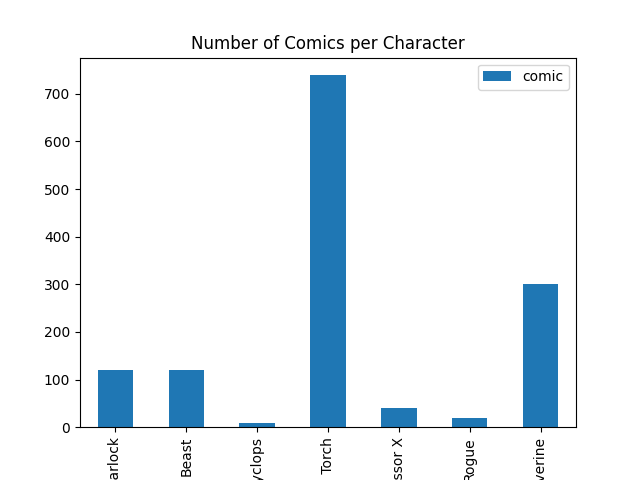
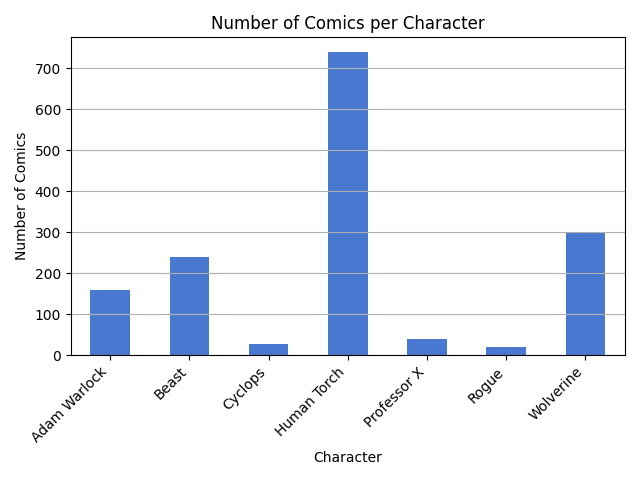
feat: update bar chart visualization

diff --git a/app/pivot_db_data.py b/app/pivot_db_data.py
@@ -1,9 +1,10 @@
-
-# create a class to encapsulate the database connection
-from matplotlib import pyplot as plt
+# create a class to encapsulate the database connection and query execution
+# from matplotlib import pyplot as plt
+import matplotlib.pyplot as plt
 import csv
 import pandas as pd
 import numpy as np
+import seaborn as sns
 from DbConnx import DbConnx
 
 conn = DbConnx()
@@ -24,11 +25,24 @@ df = pd.DataFrame(rows, columns=['name', 'comic'])
 # count the number of comics for each character
 comic_counts = df.pivot_table(index='name', aggfunc='count')
 
-print(comic_counts)
+# Set the color palette
+sns.set_palette("muted")
 
 # create a bar chart image of the data
-comic_counts.plot(
-    kind='bar', title='Number of Comics per Character', legend=True)
+ax = comic_counts.plot(
+    kind='bar', title='Number of Comics per Character', legend=False)
+
+# Add labels to the x-axis and y-axis
+ax.set_xlabel('Character')
+ax.set_ylabel('Number of Comics')
+
+# Add a grid
+ax.grid(axis='y')
+
+# Rotate the x-axis labels
+plt.xticks(rotation=45, ha='right')
+
+plt.tight_layout()
 plt.savefig('comic_counts.png')
 
 # close the cursor and connection to so the server can allocate
